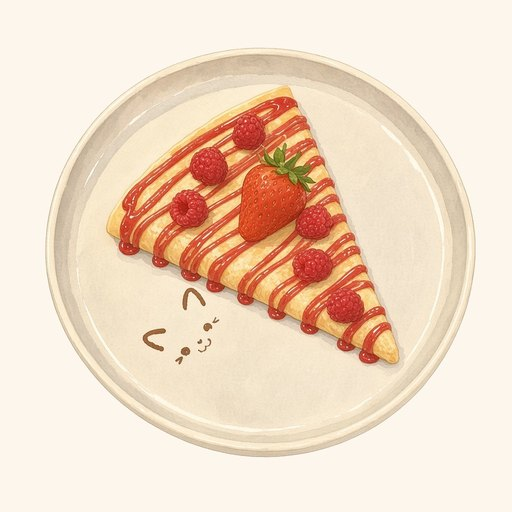
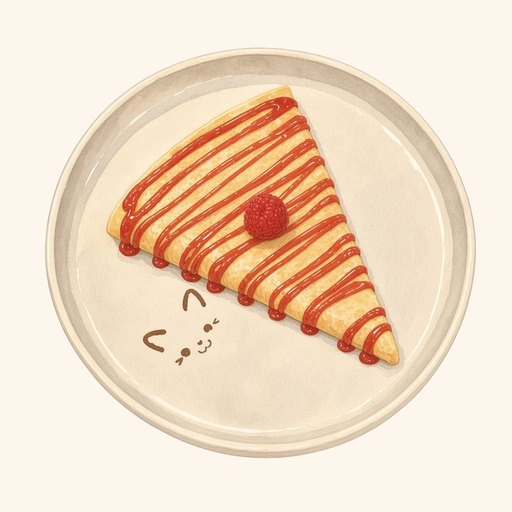
V9.2.1

diff --git a/src/i18n/arMenu.js b/src/i18n/arMenu.js
@@ -139,7 +139,7 @@ export const arCopy = {
     'pancake-cats-garden': { name: 'Pancake Cats Garden', description: 'بان كيك طري بالعسل الصافي والفواكه الجافة المقرمشة' },
     'pancake-amande-praline': { name: 'بان كيك لوز وبرالين', description: 'بان كيك طري باللوز المفروم وبرالين اللوز' },
     'pancake-pecan-praline': { name: 'بان كيك بيكان وبرالين', description: 'بان كيك طري بقطع جوز البيكان' },
-    'pancake-fruits-rouges-coulis': { name: 'بان كيك الفواكه الحمراء', description: 'بان كيك طري بصلصة الكولي والفواكه الحمراء' },
+    'pancake-fruits-rouges-coulis': { name: 'بان كيك الفواكه الحمراء', description: 'بان كيك طري بصلصة الكولي وحبة توت في الوسط' },
     'crepe-nutella': { name: 'كريب نوتيلا', description: 'كريب رقيق مغطى بنوتيلا' },
     'crepe-nutella-banane': { name: 'كريب نوتيلا وموز', description: 'كريب، نوتيلا وشرائح الموز' },
     'crepe-caramel-beurre-sale': { name: 'كريب كراميل بالزبدة المملحة', description: 'كريب بكراميل الزبدة المملحة المنزلي' },
@@ -147,7 +147,7 @@ export const arCopy = {
     'crepe-nutella-pistache': { name: 'كريب نوتيلا وفستق', description: 'كريب، نوتيلا وكريمة الفستق' },
     'crepe-amande-praline': { name: 'كريب لوز وبرالين', description: 'كريب بكريمة برالين اللوز' },
     'crepe-pecan-praline': { name: 'كريب بيكان وبرالين', description: 'كريب بالبرالين وقطع جوز البيكان' },
-    'crepe-fruits-rouges-coulis': { name: 'كريب الفواكه الحمراء', description: 'كريب بصلصة الكولي والفواكه الحمراء' },
+    'crepe-fruits-rouges-coulis': { name: 'كريب الفواكه الحمراء', description: 'كريب بصلصة الكولي وحبة توت في الوسط' },
     'crepe-kunafa-dubai': { name: 'كريب كنافة دبي', description: 'كنافة، فستق ونوتيلا' },
     'crepe-fruits-saison': { name: 'كريب نوتيلا أو كراميل بفواكه الموسم', description: 'كريب بنوتيلا أو الكراميل وفواكه الموسم الطرية' },
     'gaufre-nutella': { name: 'غوفر نوتيلا', description: 'غوفر مقرمش مغطى بنوتيلا' },
@@ -156,7 +156,7 @@ export const arCopy = {
     'gaufre-pistache': { name: 'غوفر بالفستق', description: 'غوفر بكريمة الفستق' },
     'gaufre-amande-praline': { name: 'غوفر لوز وبرالين', description: 'غوفر باللوز وبرالين اللوز' },
     'gaufre-pecan-praline': { name: 'غوفر بيكان وبرالين', description: 'غوفر بالبرالين وقطع جوز البيكان' },
-    'gaufre-fruits-rouges-coulis': { name: 'غوفر الفواكه الحمراء', description: 'غوفر بصلصة الكولي والفواكه الحمراء' },
+    'gaufre-fruits-rouges-coulis': { name: 'غوفر الفواكه الحمراء', description: 'غوفر بصلصة الكولي وحبة توت في الوسط' },
     'gaufre-fruits-nutella': {
         name: 'غوفر فواكه ونوتيلا',
         description: 'غوفر بالفواكه الطرية ونوتيلا',

diff --git a/src/i18n/arMenu.ts b/src/i18n/arMenu.ts
@@ -157,7 +157,7 @@ export const arCopy: Record<string, ArCopy> = {
   'pancake-cats-garden': { name: 'Pancake Cats Garden', description: 'بان كيك طري بالعسل الصافي والفواكه الجافة المقرمشة' },
   'pancake-amande-praline': { name: 'بان كيك لوز وبرالين', description: 'بان كيك طري باللوز المفروم وبرالين اللوز' },
   'pancake-pecan-praline': { name: 'بان كيك بيكان وبرالين', description: 'بان كيك طري بقطع جوز البيكان' },
-  'pancake-fruits-rouges-coulis': { name: 'بان كيك الفواكه الحمراء', description: 'بان كيك طري بصلصة الكولي والفواكه الحمراء' },
+  'pancake-fruits-rouges-coulis': { name: 'بان كيك الفواكه الحمراء', description: 'بان كيك طري بصلصة الكولي وحبة توت في الوسط' },
 
   'crepe-nutella': { name: 'كريب نوتيلا', description: 'كريب رقيق مغطى بنوتيلا' },
   'crepe-nutella-banane': { name: 'كريب نوتيلا وموز', description: 'كريب، نوتيلا وشرائح الموز' },
@@ -166,7 +166,7 @@ export const arCopy: Record<string, ArCopy> = {
   'crepe-nutella-pistache': { name: 'كريب نوتيلا وفستق', description: 'كريب، نوتيلا وكريمة الفستق' },
   'crepe-amande-praline': { name: 'كريب لوز وبرالين', description: 'كريب بكريمة برالين اللوز' },
   'crepe-pecan-praline': { name: 'كريب بيكان وبرالين', description: 'كريب بالبرالين وقطع جوز البيكان' },
-  'crepe-fruits-rouges-coulis': { name: 'كريب الفواكه الحمراء', description: 'كريب بصلصة الكولي والفواكه الحمراء' },
+  'crepe-fruits-rouges-coulis': { name: 'كريب الفواكه الحمراء', description: 'كريب بصلصة الكولي وحبة توت في الوسط' },
   'crepe-kunafa-dubai': { name: 'كريب كنافة دبي', description: 'كنافة، فستق ونوتيلا' },
   'crepe-fruits-saison': { name: 'كريب نوتيلا أو كراميل بفواكه الموسم', description: 'كريب بنوتيلا أو الكراميل وفواكه الموسم الطرية' },
 
@@ -176,7 +176,7 @@ export const arCopy: Record<string, ArCopy> = {
   'gaufre-pistache': { name: 'غوفر بالفستق', description: 'غوفر بكريمة الفستق' },
   'gaufre-amande-praline': { name: 'غوفر لوز وبرالين', description: 'غوفر باللوز وبرالين اللوز' },
   'gaufre-pecan-praline': { name: 'غوفر بيكان وبرالين', description: 'غوفر بالبرالين وقطع جوز البيكان' },
-  'gaufre-fruits-rouges-coulis': { name: 'غوفر الفواكه الحمراء', description: 'غوفر بصلصة الكولي والفواكه الحمراء' },
+  'gaufre-fruits-rouges-coulis': { name: 'غوفر الفواكه الحمراء', description: 'غوفر بصلصة الكولي وحبة توت في الوسط' },
   'gaufre-fruits-nutella': {
     name: 'غوفر فواكه ونوتيلا',
     description: 'غوفر بالفواكه الطرية ونوتيلا',

diff --git a/src/data/menu.js b/src/data/menu.js
@@ -1170,8 +1170,8 @@ export const menuItems = [
         categoryId: 'pancakes',
         nameFr: 'Pancake Fruits Rouges Coulis',
         nameEn: 'Red Berry Pancake',
-        descriptionFr: 'Pancake moelleux nappé de coulis et garni de fruits rouges',
-        descriptionEn: 'Fluffy pancake with red berry coulis and fresh berries',
+        descriptionFr: 'Pancake moelleux nappé de coulis, une framboise au centre',
+        descriptionEn: 'Fluffy pancake with red berry coulis and one raspberry in the center',
         price: 50,
         tags: ['vegetarian'],
         badges: [],
@@ -1277,8 +1277,8 @@ export const menuItems = [
         categoryId: 'crepes-sucrees',
         nameFr: 'Crêpe Fruits Rouges Coulis',
         nameEn: 'Red Berry Crepe',
-        descriptionFr: 'Crêpe nappée de coulis et garnie de fruits rouges',
-        descriptionEn: 'Crepe with red berry coulis and fresh berries',
+        descriptionFr: 'Crêpe nappée de coulis, une framboise au centre',
+        descriptionEn: 'Crepe with red berry coulis and one raspberry in the center',
         price: 50,
         tags: ['vegetarian'],
         badges: [],
@@ -1398,8 +1398,8 @@ export const menuItems = [
         categoryId: 'gaufres',
         nameFr: 'Gaufre Fruits Rouges Coulis',
         nameEn: 'Red Berry Waffle',
-        descriptionFr: 'Gaufre nappée de coulis et garnie de fruits rouges',
-        descriptionEn: 'Waffle with red berry coulis and fresh berries',
+        descriptionFr: 'Gaufre nappée de coulis, une framboise au centre',
+        descriptionEn: 'Waffle with red berry coulis and one raspberry in the center',
         price: 50,
         tags: ['vegetarian'],
         badges: [],

diff --git a/src/data/menu.ts b/src/data/menu.ts
@@ -1184,8 +1184,8 @@ export const menuItems: MenuItem[] = [
     categoryId: 'pancakes',
     nameFr: 'Pancake Fruits Rouges Coulis',
     nameEn: 'Red Berry Pancake',
-    descriptionFr: 'Pancake moelleux nappé de coulis et garni de fruits rouges',
-    descriptionEn: 'Fluffy pancake with red berry coulis and fresh berries',
+    descriptionFr: 'Pancake moelleux nappé de coulis, une framboise au centre',
+    descriptionEn: 'Fluffy pancake with red berry coulis and one raspberry in the center',
     price: 50,
     tags: ['vegetarian'],
     badges: [],
@@ -1292,8 +1292,8 @@ export const menuItems: MenuItem[] = [
     categoryId: 'crepes-sucrees',
     nameFr: 'Crêpe Fruits Rouges Coulis',
     nameEn: 'Red Berry Crepe',
-    descriptionFr: 'Crêpe nappée de coulis et garnie de fruits rouges',
-    descriptionEn: 'Crepe with red berry coulis and fresh berries',
+    descriptionFr: 'Crêpe nappée de coulis, une framboise au centre',
+    descriptionEn: 'Crepe with red berry coulis and one raspberry in the center',
     price: 50,
     tags: ['vegetarian'],
     badges: [],
@@ -1414,8 +1414,8 @@ export const menuItems: MenuItem[] = [
     categoryId: 'gaufres',
     nameFr: 'Gaufre Fruits Rouges Coulis',
     nameEn: 'Red Berry Waffle',
-    descriptionFr: 'Gaufre nappée de coulis et garnie de fruits rouges',
-    descriptionEn: 'Waffle with red berry coulis and fresh berries',
+    descriptionFr: 'Gaufre nappée de coulis, une framboise au centre',
+    descriptionEn: 'Waffle with red berry coulis and one raspberry in the center',
     price: 50,
     tags: ['vegetarian'],
     badges: [],
